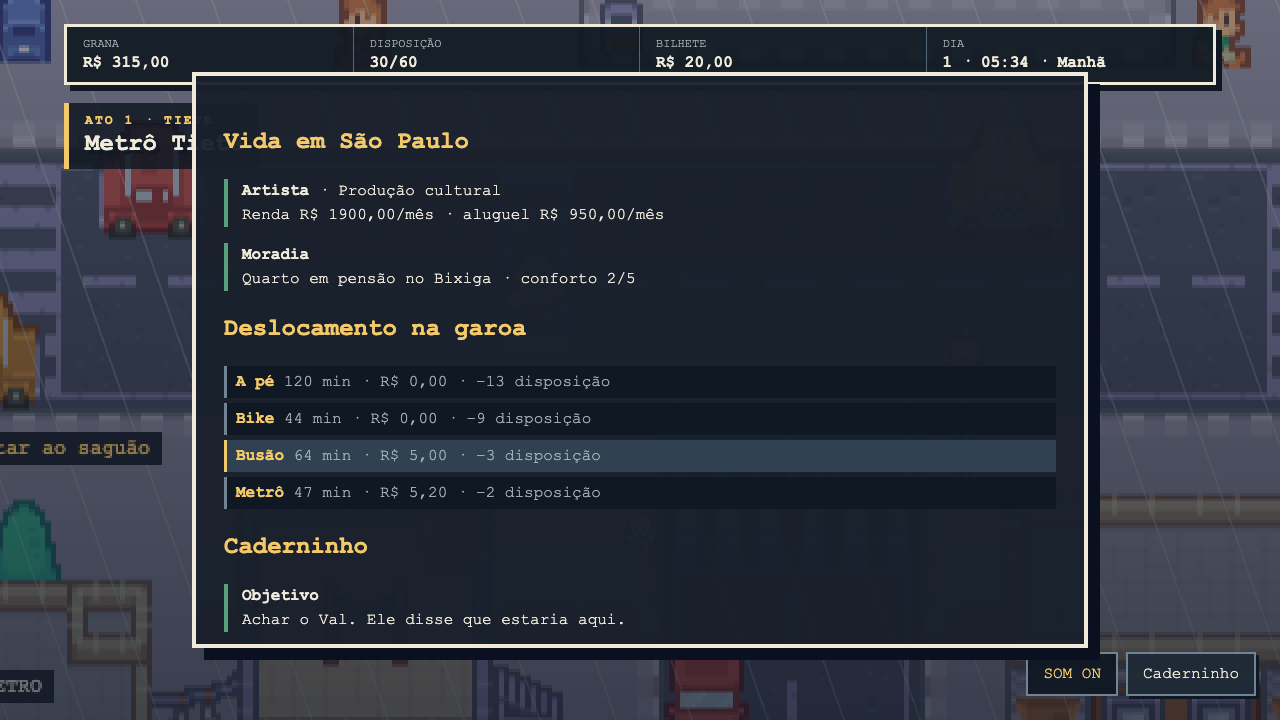
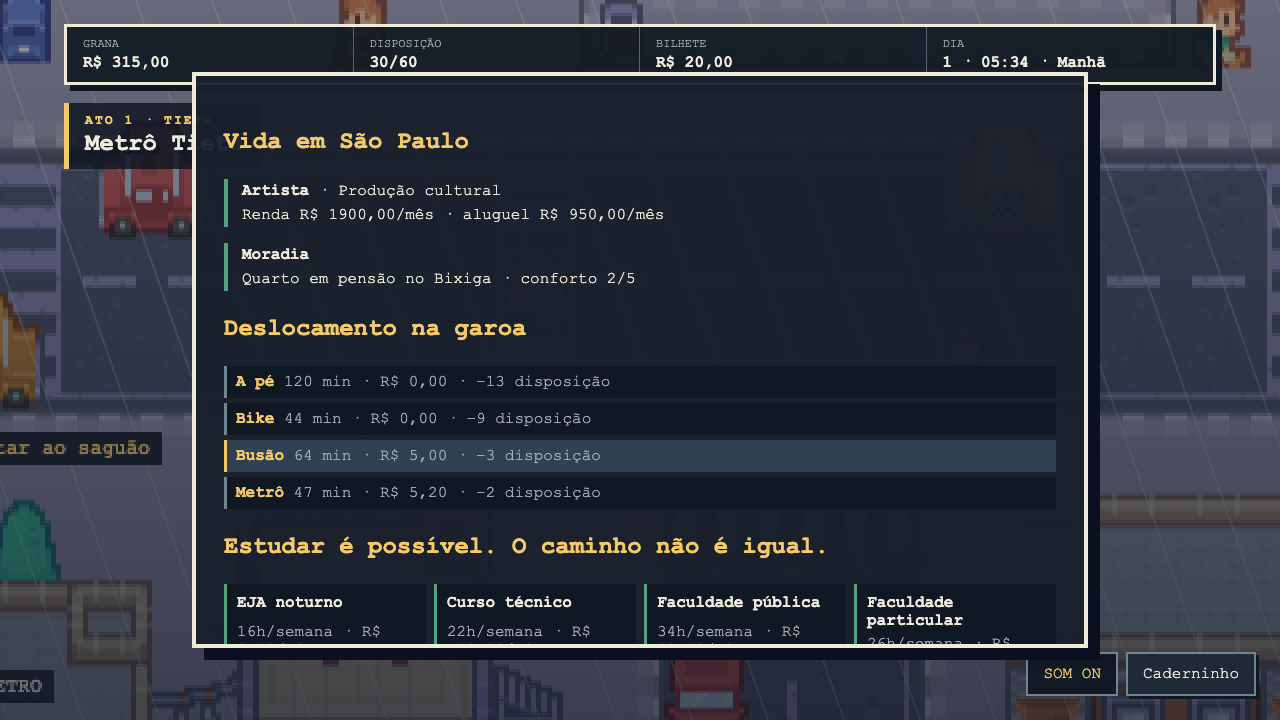
feat: show unequal education paths in notebook

diff --git a/src/main.ts b/src/main.ts
@@ -11,6 +11,7 @@ import { getView as battleView } from './core/desenrolo/desenrolo.js'
 import { mountBackdrop } from './engine/backdrop.js'
 import { AudioDirector } from './engine/audio.js'
 import { allCommutes, type TravelMode } from './core/life/commute.js'
+import { allEducationAssessments } from './core/life/education.js'
 import { EventBus, ConsoleExporter, NoopExporter } from './observability/events.js'
 import { browserClock, LocalSaveStorage } from './platform/browser.js'
 
@@ -201,7 +202,27 @@ function menu(): string {
     peak: state!.clock.period !== 'night',
     raining: true,
   })
-  return `<aside class="menu"><h3>Vida em São Paulo</h3><p><b>${archetypes[player.archetype].name}</b> · ${player.occupation}<br>Renda ${money(player.monthlyIncome)}/mês · aluguel ${money(player.monthlyRent)}/mês</p><p><b>Moradia</b><br>${home.name} · conforto ${home.comfort}/5</p><h3>Deslocamento na garoa</h3><div class="commutes">${estimates.map((estimate) => `<button data-travel-mode="${estimate.mode}" class="${player.preferredTravelMode === estimate.mode ? 'active' : ''}"><b>${modeName[estimate.mode]}</b> ${estimate.minutes} min · ${money(estimate.cost)} · −${estimate.energy} disposição</button>`).join('')}</div><h3>Caderninho</h3>${state!.journal.map((entry) => `<p><b>${entry.kind === 'objective' ? 'Objetivo' : entry.kind === 'contact' ? 'Contato' : 'Aprendi'}</b><br>${entry.text}</p>`).join('') || '<p>A primeira página ainda está em branco.</p>'}<h3>Salvar</h3><div class="slots">${SLOTS.map((slot) => `<button data-slot="${slot}">Slot ${slot}</button>`).join('')}</div><button data-command="menu">Fechar</button></aside>`
+  const selectedCommute = estimates.find(
+    (estimate) => estimate.mode === player.preferredTravelMode
+  )!
+  const work: Record<ArchetypeId, { hours: number; flexibility: number }> = {
+    pedreiro: { hours: 48, flexibility: 0.15 },
+    faria_limer: { hours: 52, flexibility: 0.35 },
+    artista: { hours: 38, flexibility: 0.65 },
+    entregador: { hours: 50, flexibility: 0.45 },
+    estudante: { hours: 24, flexibility: 0.7 },
+    saude: { hours: 48, flexibility: 0.2 },
+  }
+  const education = allEducationAssessments({
+    archetype: player.archetype,
+    monthlyDisposableIncome: Math.max(0, player.monthlyIncome - player.monthlyRent),
+    weeklyWorkHours: work[player.archetype].hours,
+    commuteMinutesPerDay: selectedCommute.minutes * 2,
+    scheduleFlexibility: work[player.archetype].flexibility,
+  })
+  const difficulty = (score: number): string =>
+    score <= 8 ? 'cabe na rotina' : score <= 18 ? 'exige rearranjo' : 'sacrifício alto'
+  return `<aside class="menu"><h3>Vida em São Paulo</h3><p><b>${archetypes[player.archetype].name}</b> · ${player.occupation}<br>Renda ${money(player.monthlyIncome)}/mês · aluguel ${money(player.monthlyRent)}/mês</p><p><b>Moradia</b><br>${home.name} · conforto ${home.comfort}/5</p><h3>Deslocamento na garoa</h3><div class="commutes">${estimates.map((estimate) => `<button data-travel-mode="${estimate.mode}" class="${player.preferredTravelMode === estimate.mode ? 'active' : ''}"><b>${modeName[estimate.mode]}</b> ${estimate.minutes} min · ${money(estimate.cost)} · −${estimate.energy} disposição</button>`).join('')}</div><h3>Estudar é possível. O caminho não é igual.</h3><div class="education">${education.map((option) => `<article><b>${option.path.name}</b><span>${option.weeklyHoursRequired}h/semana · ${money(option.monthlyCost)}/mês</span><small>${difficulty(option.accessDifficulty)} · dificuldade ${option.accessDifficulty}</small></article>`).join('')}</div><h3>Caderninho</h3>${state!.journal.map((entry) => `<p><b>${entry.kind === 'objective' ? 'Objetivo' : entry.kind === 'contact' ? 'Contato' : 'Aprendi'}</b><br>${entry.text}</p>`).join('') || '<p>A primeira página ainda está em branco.</p>'}<h3>Salvar</h3><div class="slots">${SLOTS.map((slot) => `<button data-slot="${slot}">Slot ${slot}</button>`).join('')}</div><button data-command="menu">Fechar</button></aside>`
 }
 function debug(): string {
   return `<aside class="debug"><b>DEBUG · F3</b><pre>${JSON.stringify({ mode: state!.mode, place: state!.place, seed: state!.seed, rng: state!.rngState }, null, 2)}</pre>${telemetry

diff --git a/tools/playtest/visual/act1.spec.ts b/tools/playtest/visual/act1.spec.ts
@@ -55,6 +55,10 @@ test('Act 1 visual route, keyboard, save and reload', async ({ page, browserName
   const busMode = page.locator('[data-travel-mode="bus"]')
   await busMode.click()
   await expect(busMode).toHaveClass(/active/)
+  await expect(
+    page.getByRole('heading', { name: 'Estudar é possível. O caminho não é igual.' })
+  ).toBeVisible()
+  await expect(page.getByText(/Curso técnico/)).toBeVisible()
   await page.locator('[data-slot="1"]').click()
   if (browserName === 'chromium') await shot(page, '04-caderninho')
   await page.getByRole('button', { name: 'Fechar' }).click()

diff --git a/src/style.css b/src/style.css
@@ -67,6 +67,25 @@ button {
 .commutes button b {
   color: var(--amber);
 }
+.education {
+  display: grid;
+  grid-template-columns: repeat(auto-fit, minmax(190px, 1fr));
+  gap: 8px;
+}
+.education article {
+  display: grid;
+  gap: 5px;
+  padding: 10px;
+  color: var(--mist);
+  background: #101923;
+  border-left: 3px solid var(--green);
+}
+.education article b {
+  color: var(--paper);
+}
+.education article small {
+  color: var(--amber);
+}
 #game-canvas {
   position: fixed;
   inset: 0;
